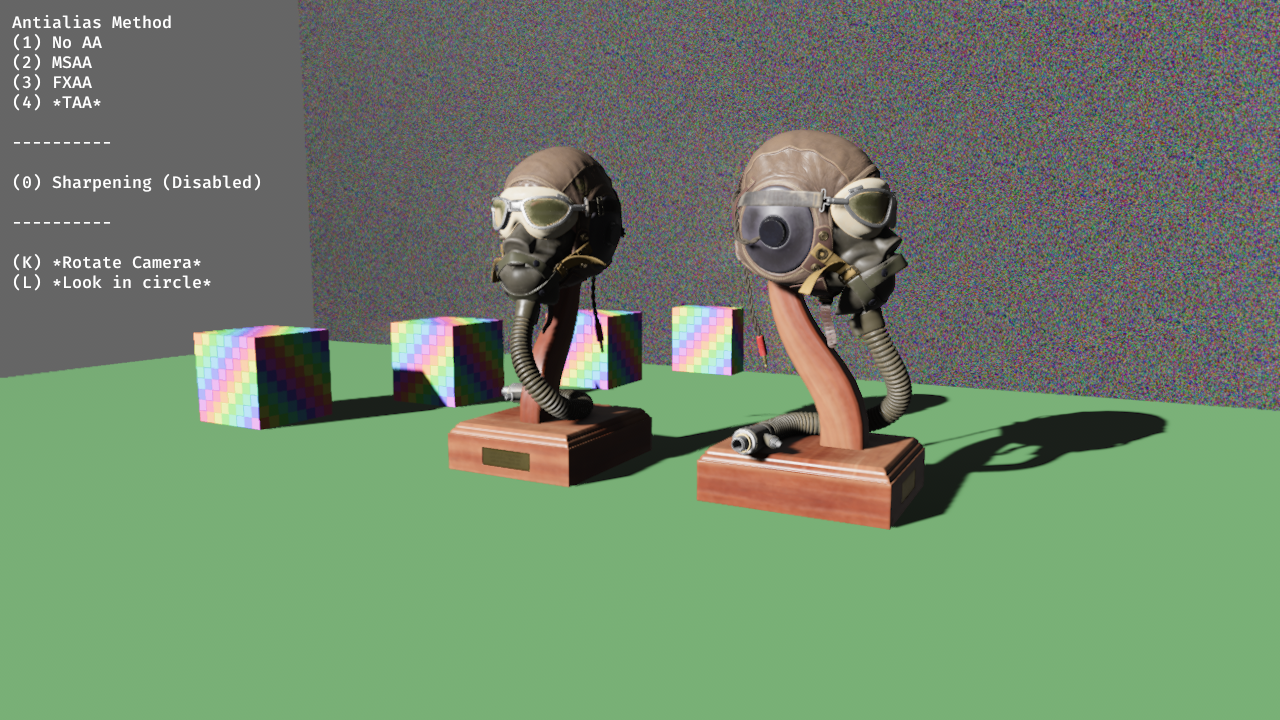
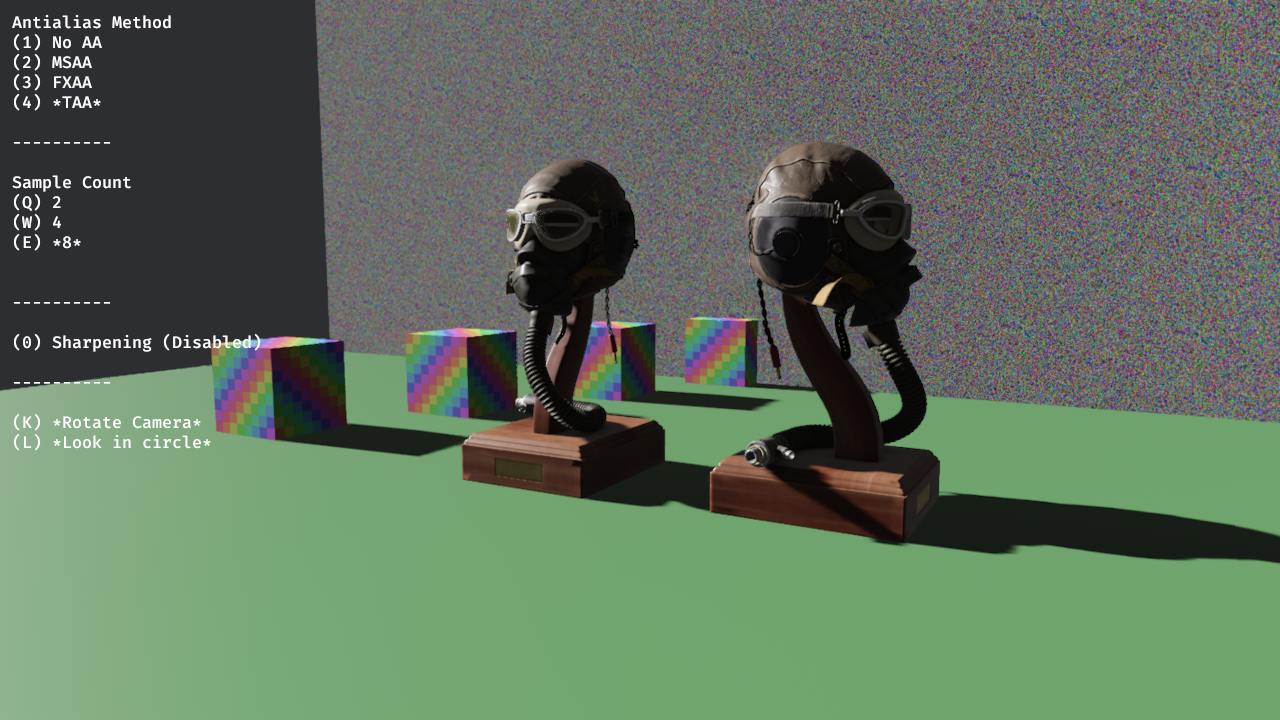
update for bevy 0.12

diff --git a/src/lib.rs b/src/lib.rs
@@ -25,13 +25,13 @@ use bevy::render::{
     prelude::{Camera, Projection},
     render_graph::{NodeRunError, RenderGraphApp, RenderGraphContext, ViewNode, ViewNodeRunner},
     render_resource::{
-        BindGroupDescriptor, BindGroupEntry, BindGroupLayout, BindGroupLayoutDescriptor,
-        BindGroupLayoutEntry, BindingResource, BindingType, CachedRenderPipelineId,
-        ColorTargetState, ColorWrites, Extent3d, FilterMode, FragmentState, MultisampleState,
-        Operations, PipelineCache, PrimitiveState, RenderPassColorAttachment, RenderPassDescriptor,
-        RenderPipelineDescriptor, Sampler, SamplerBindingType, SamplerDescriptor, Shader,
-        ShaderStages, SpecializedRenderPipeline, SpecializedRenderPipelines, TextureDescriptor,
-        TextureDimension, TextureFormat, TextureSampleType, TextureUsages, TextureViewDimension,
+        BindGroupEntry, BindGroupLayout, BindGroupLayoutDescriptor, BindGroupLayoutEntry,
+        BindingResource, BindingType, CachedRenderPipelineId, ColorTargetState, ColorWrites,
+        Extent3d, FilterMode, FragmentState, MultisampleState, Operations, PipelineCache,
+        PrimitiveState, RenderPassColorAttachment, RenderPassDescriptor, RenderPipelineDescriptor,
+        Sampler, SamplerBindingType, SamplerDescriptor, Shader, ShaderStages,
+        SpecializedRenderPipeline, SpecializedRenderPipelines, TextureDescriptor, TextureDimension,
+        TextureFormat, TextureSampleType, TextureUsages, TextureViewDimension,
     },
     renderer::{RenderContext, RenderDevice},
     texture::{BevyDefault, CachedTexture, TextureCache},
@@ -307,65 +307,58 @@ impl ViewNode for TAANode {
         let globals_buffer = world.resource::<GlobalsBuffer>();
         let globals_binding = globals_buffer.buffer.binding().unwrap();
 
-        let taa_bind_group =
-            render_context
-                .render_device()
-                .create_bind_group(&BindGroupDescriptor {
-                    label: Some("taa_bind_group"),
-                    layout: &pipelines.taa_bind_group_layout,
-                    entries: &[
-                        // View
-                        BindGroupEntry {
-                            binding: 0,
-                            resource: view_uniforms.clone(),
-                        },
-                        // Globals
-                        BindGroupEntry {
-                            binding: 9,
-                            resource: globals_binding.clone(),
-                        },
-                        BindGroupEntry {
-                            binding: 20,
-                            resource: BindingResource::TextureView(view_target.source),
-                        },
-                        BindGroupEntry {
-                            binding: 21,
-                            resource: BindingResource::Sampler(&pipelines.linear_samplers[0]),
-                        },
-                        BindGroupEntry {
-                            binding: 22,
-                            resource: BindingResource::TextureView(
-                                &taa_history_textures.read.default_view,
-                            ),
-                        },
-                        BindGroupEntry {
-                            binding: 23,
-                            resource: BindingResource::Sampler(&pipelines.linear_samplers[1]),
-                        },
-                        BindGroupEntry {
-                            binding: 24,
-                            resource: BindingResource::TextureView(
-                                &taa_history_textures.motion_read.default_view,
-                            ),
-                        },
-                        BindGroupEntry {
-                            binding: 25,
-                            resource: BindingResource::TextureView(
-                                &prepass_motion_vectors_texture.default_view,
-                            ),
-                        },
-                        BindGroupEntry {
-                            binding: 26,
-                            resource: BindingResource::TextureView(
-                                &prepass_depth_texture.default_view,
-                            ),
-                        },
-                        BindGroupEntry {
-                            binding: 27,
-                            resource: uniforms,
-                        },
-                    ],
-                });
+        let taa_bind_group = render_context.render_device().create_bind_group(
+            Some("taa_bind_group"),
+            &pipelines.taa_bind_group_layout,
+            &[
+                // View
+                BindGroupEntry {
+                    binding: 0,
+                    resource: view_uniforms.clone(),
+                },
+                // Globals
+                BindGroupEntry {
+                    binding: 9,
+                    resource: globals_binding.clone(),
+                },
+                BindGroupEntry {
+                    binding: 20,
+                    resource: BindingResource::TextureView(view_target.source),
+                },
+                BindGroupEntry {
+                    binding: 21,
+                    resource: BindingResource::Sampler(&pipelines.linear_samplers[0]),
+                },
+                BindGroupEntry {
+                    binding: 22,
+                    resource: BindingResource::TextureView(&taa_history_textures.read.default_view),
+                },
+                BindGroupEntry {
+                    binding: 23,
+                    resource: BindingResource::Sampler(&pipelines.linear_samplers[1]),
+                },
+                BindGroupEntry {
+                    binding: 24,
+                    resource: BindingResource::TextureView(
+                        &taa_history_textures.motion_read.default_view,
+                    ),
+                },
+                BindGroupEntry {
+                    binding: 25,
+                    resource: BindingResource::TextureView(
+                        &prepass_motion_vectors_texture.default_view,
+                    ),
+                },
+                BindGroupEntry {
+                    binding: 26,
+                    resource: BindingResource::TextureView(&prepass_depth_texture.default_view),
+                },
+                BindGroupEntry {
+                    binding: 27,
+                    resource: uniforms,
+                },
+            ],
+        );
 
         {
             let mut taa_pass = render_context.begin_tracked_render_pass(RenderPassDescriptor {

diff --git a/examples/anti_aliasing.rs b/examples/anti_aliasing.rs
@@ -524,7 +524,7 @@ fn setup_scene(
     if screenshot_taa.is_some() {
         camera.insert((
             //FxaaPrepass::default()
-            TAABundle::sample8(),
+            TAABundle::sample2(),
         ));
     }
 
@@ -603,7 +603,7 @@ fn uv_debug_texture() -> Image {
         &texture_data,
         TextureFormat::Rgba8UnormSrgb,
     );
-    img.sampler_descriptor = ImageSampler::Descriptor(SamplerDescriptor::default());
+    img.sampler = ImageSampler::Descriptor(SamplerDescriptor::default().into());
     img
 }
 
@@ -670,16 +670,19 @@ fn noise_debug_texture() -> Image {
     img.data = image_data;
     img.texture_descriptor.mip_level_count = mip_count;
     img.texture_descriptor.format = TextureFormat::Rgba8Unorm;
-    img.sampler_descriptor = ImageSampler::Descriptor(SamplerDescriptor {
-        address_mode_u: AddressMode::Repeat,
-        address_mode_v: AddressMode::Repeat,
-        address_mode_w: AddressMode::Repeat,
-        mag_filter: FilterMode::Linear,
-        min_filter: FilterMode::Linear,
-        mipmap_filter: FilterMode::Linear,
-        anisotropy_clamp: 16,
-        ..default()
-    });
+    img.sampler = ImageSampler::Descriptor(
+        SamplerDescriptor {
+            address_mode_u: AddressMode::Repeat,
+            address_mode_v: AddressMode::Repeat,
+            address_mode_w: AddressMode::Repeat,
+            mag_filter: FilterMode::Linear,
+            min_filter: FilterMode::Linear,
+            mipmap_filter: FilterMode::Linear,
+            anisotropy_clamp: 16,
+            ..default()
+        }
+        .into(),
+    );
     img
 }
 
@@ -695,18 +698,21 @@ fn set_sampler(
                 let Some(img) = images.get_mut(*id) else {
                     continue;
                 };
-                match &mut img.sampler_descriptor {
+                match &mut img.sampler {
                     ImageSampler::Default => {
-                        img.sampler_descriptor = ImageSampler::Descriptor(SamplerDescriptor {
-                            address_mode_u: AddressMode::Repeat,
-                            address_mode_v: AddressMode::Repeat,
-                            address_mode_w: AddressMode::Repeat,
-                            mag_filter: FilterMode::Linear,
-                            min_filter: FilterMode::Linear,
-                            mipmap_filter: FilterMode::Linear,
-                            anisotropy_clamp: 16,
-                            ..default()
-                        });
+                        img.sampler = ImageSampler::Descriptor(
+                            SamplerDescriptor {
+                                address_mode_u: AddressMode::Repeat,
+                                address_mode_v: AddressMode::Repeat,
+                                address_mode_w: AddressMode::Repeat,
+                                mag_filter: FilterMode::Linear,
+                                min_filter: FilterMode::Linear,
+                                mipmap_filter: FilterMode::Linear,
+                                anisotropy_clamp: 16,
+                                ..default()
+                            }
+                            .into(),
+                        );
                     }
                     ImageSampler::Descriptor(_) => continue,
                 }

diff --git a/src/fxaa/node.rs b/src/fxaa/node.rs
@@ -6,9 +6,8 @@ use bevy::ecs::query::QueryItem;
 use bevy::render::{
     render_graph::{NodeRunError, RenderGraphContext, ViewNode},
     render_resource::{
-        BindGroup, BindGroupDescriptor, BindGroupEntry, BindingResource, FilterMode, Operations,
-        PipelineCache, RenderPassColorAttachment, RenderPassDescriptor, SamplerDescriptor,
-        TextureViewId,
+        BindGroup, BindGroupEntry, BindingResource, FilterMode, Operations, PipelineCache,
+        RenderPassColorAttachment, RenderPassDescriptor, SamplerDescriptor, TextureViewId,
     },
     renderer::RenderContext,
     view::ViewTarget,
@@ -61,23 +60,20 @@ impl ViewNode for FxaaNode {
                         ..default()
                     });
 
-                let bind_group =
-                    render_context
-                        .render_device()
-                        .create_bind_group(&BindGroupDescriptor {
-                            label: None,
-                            layout: &fxaa_pipeline.texture_bind_group,
-                            entries: &[
-                                BindGroupEntry {
-                                    binding: 0,
-                                    resource: BindingResource::TextureView(source),
-                                },
-                                BindGroupEntry {
-                                    binding: 1,
-                                    resource: BindingResource::Sampler(&sampler),
-                                },
-                            ],
-                        });
+                let bind_group = render_context.render_device().create_bind_group(
+                    None,
+                    &fxaa_pipeline.texture_bind_group,
+                    &[
+                        BindGroupEntry {
+                            binding: 0,
+                            resource: BindingResource::TextureView(source),
+                        },
+                        BindGroupEntry {
+                            binding: 1,
+                            resource: BindingResource::Sampler(&sampler),
+                        },
+                    ],
+                );
 
                 let (_, bind_group) = cached_bind_group.insert((source.id(), bind_group));
                 bind_group

diff --git a/README.md b/README.md
@@ -1,11 +1,20 @@
 # Temporal Anti Aliasing for Bevy
 
-In its current state, `bevy_mod_taa` somewhat closely resembles bevy's builtin experimental TAA. It addresses a few issues related to smearing over disoccluded areas, and also favors sharper blending overall. In the future this plugin will significantly diverge from bevy's builtin TAA in order to better handle a much larger variety of scenes.
+WIP
 
-Currently depends on the bevy main branch. After the 0.12 release this `bevy_mod_taa` will depend on bevy 0.12
+Depends on bevy 0.12
 
-![example_with](demo.png)
+`bevy_mod_taa` addresses a few issues related to smearing over disoccluded areas, and also favors sharper blending overall. 
+
+It also has a mode `TAABundle::sample2()` that somewhat resembles the [TAA method used in Horizon Zero Dawn](https://advances.realtimerendering.com/s2017/DecimaSiggraph2017.pdf) (P. 29) that only uses the previous frame to minimize ghosting/smearing artifacts.
+
+Example screenshots under heavy motion:
+
+![example](demo.png)
 *bevy_mod_taa*
 
-![bevy main](bevy_main.png)
-*bevy main*
+![bevy 0.12](bevy.png)
+*bevy 0.12*
+
+![example sample 2](demo_sample2.png)
+*bevy_mod_taa sample2*
